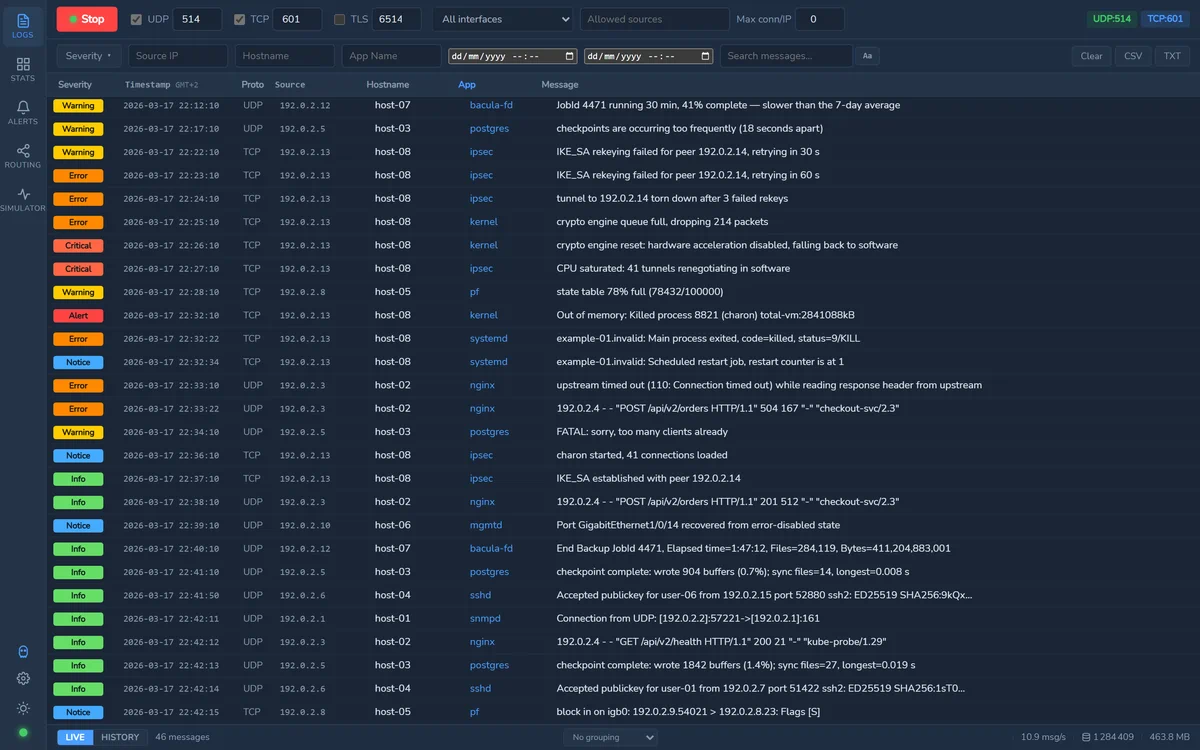
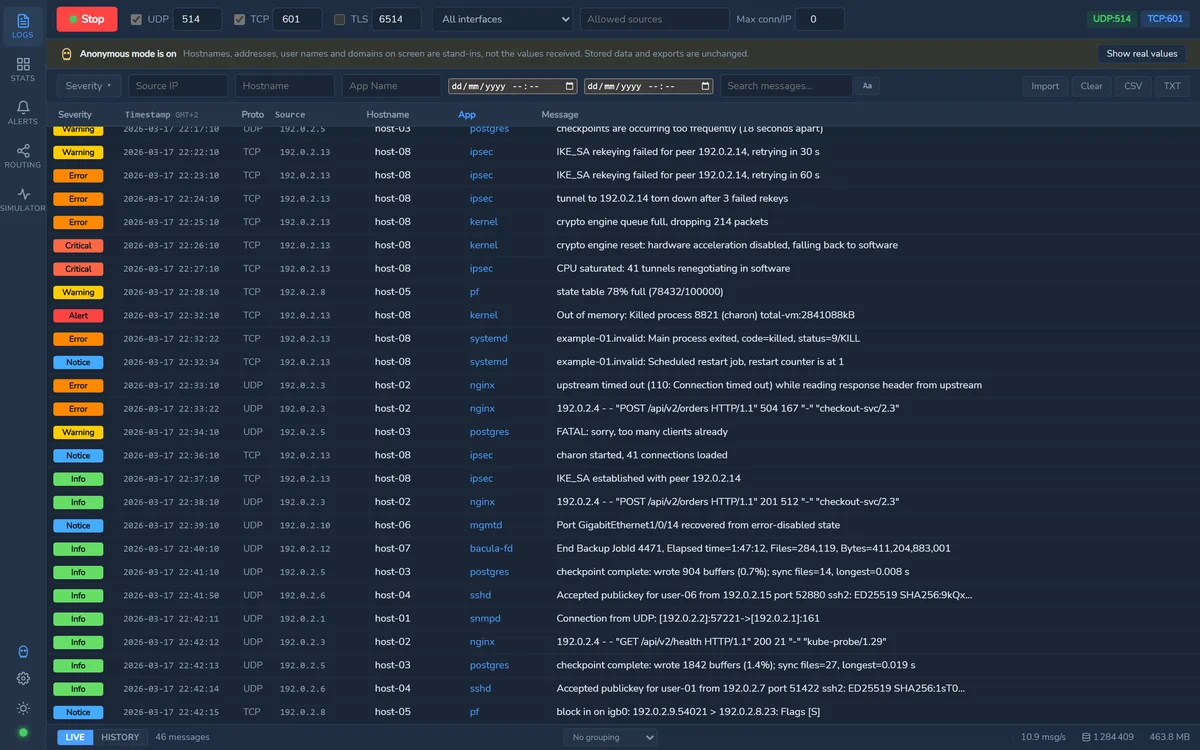
fix(ui): say on screen when anonymous mode is rewriting what is displayed (#49)
Anonymous mode replaces hostnames, addresses, user names and domains
everywhere a log is displayed, and it persists across restarts. The only sign
of it was a 16 px icon at the bottom of the sidebar tinted with the accent
colour — and that button sits directly above the settings one, which is how it
gets turned on without being meant.

So it was reported as the application identifying sources wrongly since v1.4:
a collector recording 10.211.8.13 was showing 192.0.2.1, and nothing anywhere
said why. Two issues came out of one session in that state.

The string for this already existed. "Anonymous mode is on" has been sitting in
all eight locale files since the feature landed, rendered nowhere — the
indicator was designed and then never wired up.

Now a banner states it above the columns whose values are substituted, says
that stored data and exports are unchanged, and carries the way back in the
same place. A toast fires on the change itself, from either entry point, so a
misclick announces itself at the moment it happens rather than three days
later.

Changed region(s): [[0.0308, 0.0613, 0.74, 0.184], [0.8942, 0.0613, 0.9867, 0.092]]

diff --git a/frontend/src/components/AnonymousBanner.svelte b/frontend/src/components/AnonymousBanner.svelte
@@ -1,0 +1,73 @@
+<script lang="ts">
+    /**
+     * Says, while it is on, that what is on screen is not what was received.
+     *
+     * Anonymous mode replaces hostnames, addresses, user names and domains
+     * with stand-ins, everywhere a log is displayed, and it persists across
+     * restarts. Until this banner existed the only sign of it was a 16 px icon
+     * at the bottom of the sidebar tinted with the accent colour — so someone
+     * who turned it on, or hit it on the way to the settings button below it,
+     * came back to an application quietly showing 192.0.2.1 where their
+     * collector had recorded 10.211.8.13.
+     *
+     * That is how #49 was reported: not as a mode left on, but as the
+     * application identifying sources wrongly since v1.4. A display that
+     * rewrites what it shows has to say so where the rewriting is read, and
+     * offer the way back in the same place.
+     */
+    import { _ } from 'svelte-i18n';
+    import { anonymous } from '../lib/anonymize';
+</script>
+
+{#if $anonymous}
+    <div class="anon-banner" role="status">
+        <svg class="anon-icon" width="16" height="16" viewBox="0 0 24 24" fill="none"
+             stroke="currentColor" stroke-width="2" stroke-linecap="round" stroke-linejoin="round"
+             aria-hidden="true">
+            <path d="M9 21c0 .5-.4 1-1 1s-1-.5-1-1v-1.5a5 5 0 0 1-2-4V9a7 7 0 0 1 14 0v6.5a5 5 0 0 1-2 4V21c0 .5-.4 1-1 1s-1-.5-1-1-.4-1-1-1-1 .5-1 1-.4 1-1 1-1-.5-1-1-.4-1-1-1-1 .5-1 1z"/>
+            <circle cx="9" cy="10" r="1.2" fill="currentColor"/>
+            <circle cx="15" cy="10" r="1.2" fill="currentColor"/>
+        </svg>
+
+        <span class="anon-title">{$_('anonymous.active')}</span>
+        <span class="anon-text">{$_('anonymous.banner')}</span>
+
+        <button class="anon-off" on:click={() => anonymous.set(false)}>
+            {$_('anonymous.showReal')}
+        </button>
+    </div>
+{/if}
+
+<style>
+    .anon-banner {
+        display: flex;
+        align-items: center;
+        gap: 8px;
+        padding: 6px 16px;
+        flex-shrink: 0;
+        background: var(--warning-bg, rgba(240, 198, 116, 0.14));
+        border-bottom: 1px solid var(--border-color);
+        font-size: 11px;
+        color: var(--text-primary);
+    }
+
+    .anon-icon { flex-shrink: 0; color: var(--severity-warning, #f0c674); }
+    .anon-title { font-weight: 600; flex-shrink: 0; }
+    .anon-text {
+        color: var(--text-secondary);
+        overflow: hidden; text-overflow: ellipsis; white-space: nowrap;
+    }
+
+    .anon-off {
+        margin-left: auto;
+        flex-shrink: 0;
+        padding: 3px 10px;
+        font-size: 11px;
+        cursor: pointer;
+        background: var(--bg-secondary);
+        color: var(--text-primary);
+        border: 1px solid var(--border-color);
+        border-radius: 3px;
+    }
+    .anon-off:hover { background: var(--bg-hover); }
+</style>

diff --git a/frontend/src/App.svelte b/frontend/src/App.svelte
@@ -4,6 +4,21 @@
     import { initEventListeners, destroyEventListeners } from './lib/events';
     import { activeView, serverStatus } from './lib/stores';
     import { anonymous, toggleAnonymous } from './lib/anonymize';
+    import AnonymousBanner from './components/AnonymousBanner.svelte';
+
+    // The mode can be switched from the sidebar button or from the settings
+    // panel, and the sidebar button sits directly above the settings one —
+    // which is how someone turns it on without meaning to. Saying so at the
+    // moment it changes is what turns a mystery back into a mode.
+    let lastAnonymous = $anonymous;
+    $: if ($anonymous !== lastAnonymous) {
+        lastAnonymous = $anonymous;
+        if ($anonymous) {
+            toastInfo($_('anonymous.active'));
+        } else {
+            toastSuccess($_('anonymous.off'));
+        }
+    }
     import { theme, toggleTheme } from './lib/theme';
     import ServerControls from './components/ServerControls.svelte';
     import FilterBar from './components/FilterBar.svelte';
@@ -19,7 +34,7 @@
     import CloseDialog from './components/CloseDialog.svelte';
     import UnlockScreen from './components/UnlockScreen.svelte';
     import { isEncryptionLocked, getUpdateConfig, isCAKeyUnencrypted } from './lib/api';
-    import { toastError } from './lib/toast';
+    import { toastError, toastInfo, toastSuccess } from './lib/toast';
     import { updateStore } from './lib/updateStore';
     import UpdateBanner from './components/UpdateBanner.svelte';
 
@@ -205,6 +220,7 @@
     <div class="main-area">
         <UpdateBanner />
         <ServerControls onTLSConfig={() => showTLSConfig = true} />
+        <AnonymousBanner />
 
         {#if $activeView === 'logs'}
             <FilterBar />
